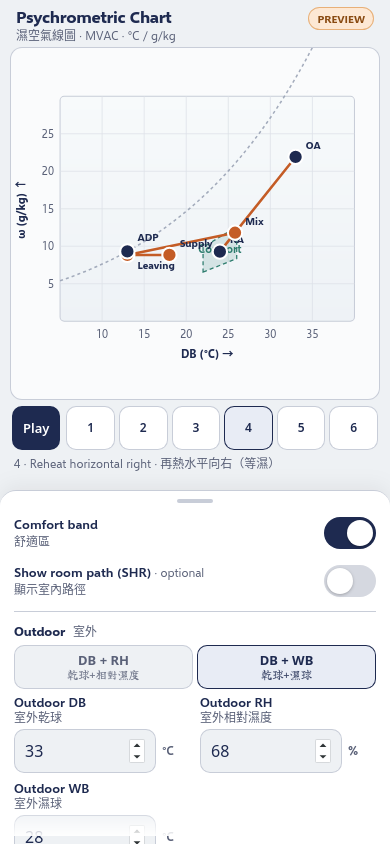
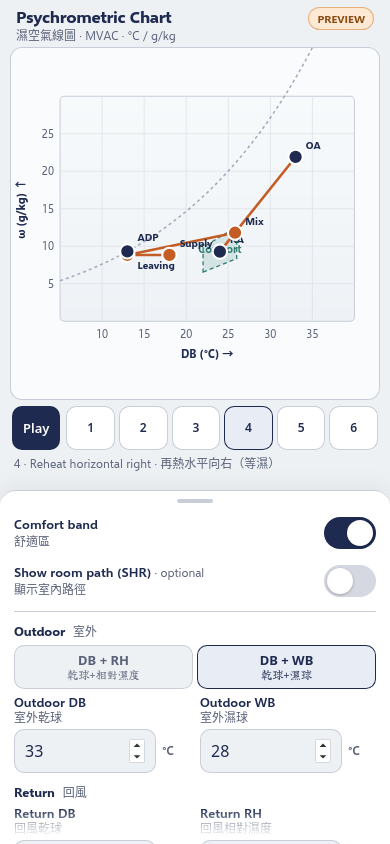
Proof: light-v2 punch-fix P0/P1/P2 on e6fbadc
Chromium+WebKit 320–430: .field[hidden] display:none, BEC under
segment in first sheet band, WB>DB amber mid-keystroke then clamp
on blur. ACCEPTANCE SHA locked to punch tip e6fbadc.

diff --git a/preview-proof/light-v2/ACCEPTANCE.md b/preview-proof/light-v2/ACCEPTANCE.md
@@ -1,29 +1,40 @@
-# Light v2 acceptance
+# Light v2 punch-fix acceptance
 
-SHA: e176718 (preview)
+SHA: e6fbadc (preview)
 URL: https://justinksw.github.io/psychrometric-chart/ (Pages → preview)
+Local proof base: http://127.0.0.1:8765/
 
 | # | Item | Pass | Detail |
 |---|---|---|---|
-| 1 | 4 Defaults B1 | PASS | {"wbChecked":"true","rhChecked":"false","db":"33","wb":"28","rhHidden":true,"wbHidden":false,"raDb":"24","raRh":"50","ratio":"20","coil":"13","reheat":"5","comfort":true,"shr":false,"hasRaWb":false,"preview":true,"segH":44,"derived":68.62714915547718} |
+| 1 | 4 Defaults B1 | PASS | {"wbChecked":"true","rhChecked":"false","db":"33","wb":"28","raDb":"24","raRh":"50","ratio":"20","coil":"13","reheat":"5","comfort":true,"shr":false,"hasRaWb":false,"preview":true,"segH":44,"derived":68.62714915547718,"cssHasFieldHidden":true} |
 | 2 | 2 OA mode A1 tap≥44 | PASS | segH=44 |
 | 3 | 8 RA no WB | PASS | hasRaWb=false |
 | 4 | 13 PREVIEW badge | PASS | badge=true |
 | 5 | 10 WB calc ~68% | PASS | RH=68.6 |
-| 6 | 3 Field swap | PASS | {"rhVal":"68.6","rhHidden":false,"wbHidden":true,"mode":"true","omegaG":21.90204000011478} |
-| 7 | 5 State preserve | PASS | ω before=21.91 rh=21.90 wb=21.91 d=0.009/0.000 derivedRH=68.6 roundtripWB=28 |
-| 8 | 6 WB>DB C1 | PASS | mid={"warn":true,"val":"36"} after={"warn":false,"val":"33"} sat={"warn":false,"val":"33","rh":100} |
-| 9 | 7 BEC badge D1 | PASS | show=true clearHidden=true text=Outside typical BEC Outdoor Summer envel |
-| 10 | 1/11 no sx scroll chromium@320 | PASS | {"sw":320,"cw":320,"bodySw":320,"phoneSw":320,"phoneCw":320} |
-| 11 | 1/11 no sx scroll chromium@360 | PASS | {"sw":360,"cw":360,"bodySw":360,"phoneSw":360,"phoneCw":360} |
-| 12 | 1/11 no sx scroll chromium@390 | PASS | {"sw":390,"cw":390,"bodySw":390,"phoneSw":390,"phoneCw":390} |
-| 13 | 1/11 no sx scroll chromium@430 | PASS | {"sw":430,"cw":430,"bodySw":430,"phoneSw":430,"phoneCw":430} |
-| 14 | 1 Layout chart/sheet | PASS | {"chartTop":47.390625,"sheetTop":489.53125,"chartH":442.140625,"sheetH":354.46875,"noTabs":true} |
-| 15 | 1/11 no sx scroll webkit@320 | PASS | {"sw":320,"cw":320,"bodySw":320,"phoneSw":320,"phoneCw":320} |
-| 16 | 1/11 no sx scroll webkit@360 | PASS | {"sw":360,"cw":360,"bodySw":360,"phoneSw":360,"phoneCw":360} |
-| 17 | 1/11 no sx scroll webkit@390 | PASS | {"sw":390,"cw":390,"bodySw":390,"phoneSw":390,"phoneCw":390} |
-| 18 | 1/11 no sx scroll webkit@430 | PASS | {"sw":430,"cw":430,"bodySw":430,"phoneSw":430,"phoneCw":430} |
-| 19 | 9 Path/math inherit | PASS | computeProcess + chart path unchanged; WB path added |
-| 20 | 12 Not a checker | PASS | no pass/fail UI; BEC hint only; no RA WB; no winter |
+| 6 | P0 CSS .field[hidden] | PASS | css=true |
+| 7 | P0 DB+WB computed chromium | PASS | {"rhHiddenAttr":true,"wbHiddenAttr":false,"rhDisplay":"none","wbDisplay":"flex","rhText":" Outdoor RH室外相對濕度 % ","wbText":"Outdoor WB 室外濕球 °C"} |
+| 8 | 3 Field swap attrs | PASS | {"rhVal":"68.6","mode":"true","omegaG":21.90204000011478} |
+| 9 | 5 State preserve | PASS | ω before=21.91 rh=21.90 wb=21.91 d=0.009/0.000 derivedRH=68.6 roundtripWB=28 |
+| 10 | P0 DB+RH computed chromium | PASS | {"rhHiddenAttr":false,"wbHiddenAttr":true,"rhDisplay":"flex","wbDisplay":"none","rhText":"Outdoor RH 室外相對濕度 %","wbText":" Outdoor WB室外濕球 °C WB can’t exceed DB (s"} |
+| 11 | 6/P2 WB>DB mid+clamp | PASS | mid={"warnHidden":false,"warnDisplay":"block","val":"36"} after={"warnHidden":true,"val":"33"} sat={"warnHidden":true,"val":"33","rh":100} |
+| 12 | 7/P1 BEC first screenful | PASS | {"show":true,"display":"block","text":"Outside typical BEC Outdoor Summer envelope (hint)","top":696.53125,"bottom":742.90625,"sheetTop":489.53125,"inViewport":true,"inSheetFirstBand":true} clearHidden=true |
+| 13 | P0 default computed chromium@320 | PASS | {"rhHiddenAttr":true,"wbHiddenAttr":false,"rhDisplay":"none","wbDisplay":"flex","rhText":" Outdoor RH室外相對濕度 % ","wbText":"Outdoor WB °C"} |
+| 14 | 1/11 no sx scroll chromium@320 | PASS | {"sw":320,"cw":320,"bodySw":320,"phoneSw":320,"phoneCw":320} |
+| 15 | 1/11 no sx scroll chromium@360 | PASS | {"sw":360,"cw":360,"bodySw":360,"phoneSw":360,"phoneCw":360} |
+| 16 | P0 default computed chromium@390 | PASS | {"rhHiddenAttr":true,"wbHiddenAttr":false,"rhDisplay":"none","wbDisplay":"flex","rhText":" Outdoor RH室外相對濕度 % ","wbText":"Outdoor WB 室外濕球 °C"} |
+| 17 | 1/11 no sx scroll chromium@390 | PASS | {"sw":390,"cw":390,"bodySw":390,"phoneSw":390,"phoneCw":390} |
+| 18 | 1/11 no sx scroll chromium@430 | PASS | {"sw":430,"cw":430,"bodySw":430,"phoneSw":430,"phoneCw":430} |
+| 19 | 1 Layout chart/sheet | PASS | {"chartTop":47.390625,"sheetTop":489.53125,"chartH":442.140625,"sheetH":354.46875,"noTabs":true} |
+| 20 | P0 DB+WB computed webkit | PASS | {"rhHiddenAttr":true,"wbHiddenAttr":false,"rhDisplay":"none","wbDisplay":"flex","rhText":" Outdoor RH室外相對濕度 % ","wbText":"Outdoor WB 室外濕球 °C"} |
+| 21 | P0 DB+RH computed webkit | PASS | {"rhHiddenAttr":false,"wbHiddenAttr":true,"rhDisplay":"flex","wbDisplay":"none","rhText":"Outdoor RH 室外相對濕度 %","wbText":" Outdoor WB室外濕球 °C WB can’t exceed DB (s"} |
+| 22 | P1 BEC visible webkit | PASS | {"show":true,"display":"block","text":"Outside typical BEC Outdoor Summer envelope (hint)","top":696.53125,"bottom":742.90625,"sheetTop":489.53125,"inViewport":true,"inSheetFirstBand":true} |
+| 23 | P0 default computed webkit@320 | PASS | {"rhHiddenAttr":true,"wbHiddenAttr":false,"rhDisplay":"none","wbDisplay":"flex","rhText":" Outdoor RH室外相對濕度 % ","wbText":"Outdoor WB °C"} |
+| 24 | 1/11 no sx scroll webkit@320 | PASS | {"sw":320,"cw":320,"bodySw":320,"phoneSw":320,"phoneCw":320} |
+| 25 | 1/11 no sx scroll webkit@360 | PASS | {"sw":360,"cw":360,"bodySw":360,"phoneSw":360,"phoneCw":360} |
+| 26 | P0 default computed webkit@390 | PASS | {"rhHiddenAttr":true,"wbHiddenAttr":false,"rhDisplay":"none","wbDisplay":"flex","rhText":" Outdoor RH室外相對濕度 % ","wbText":"Outdoor WB 室外濕球 °C"} |
+| 27 | 1/11 no sx scroll webkit@390 | PASS | {"sw":390,"cw":390,"bodySw":390,"phoneSw":390,"phoneCw":390} |
+| 28 | 1/11 no sx scroll webkit@430 | PASS | {"sw":430,"cw":430,"bodySw":430,"phoneSw":430,"phoneCw":430} |
+| 29 | 9 Path/math inherit | PASS | computeProcess + chart path unchanged; WB path added |
+| 30 | 12 Not a checker | PASS | no pass/fail UI; BEC hint only; no RA WB; no winter |
 
 **ALL PASS**

diff --git a/preview-proof/light-v2/punch-fix/ACCEPTANCE.md b/preview-proof/light-v2/punch-fix/ACCEPTANCE.md
@@ -1,0 +1,40 @@
+# Light v2 punch-fix acceptance
+
+SHA: e6fbadc (preview)
+URL: https://justinksw.github.io/psychrometric-chart/ (Pages → preview)
+Local proof base: http://127.0.0.1:8765/
+
+| # | Item | Pass | Detail |
+|---|---|---|---|
+| 1 | 4 Defaults B1 | PASS | {"wbChecked":"true","rhChecked":"false","db":"33","wb":"28","raDb":"24","raRh":"50","ratio":"20","coil":"13","reheat":"5","comfort":true,"shr":false,"hasRaWb":false,"preview":true,"segH":44,"derived":68.62714915547718,"cssHasFieldHidden":true} |
+| 2 | 2 OA mode A1 tap≥44 | PASS | segH=44 |
+| 3 | 8 RA no WB | PASS | hasRaWb=false |
+| 4 | 13 PREVIEW badge | PASS | badge=true |
+| 5 | 10 WB calc ~68% | PASS | RH=68.6 |
+| 6 | P0 CSS .field[hidden] | PASS | css=true |
+| 7 | P0 DB+WB computed chromium | PASS | {"rhHiddenAttr":true,"wbHiddenAttr":false,"rhDisplay":"none","wbDisplay":"flex","rhText":" Outdoor RH室外相對濕度 % ","wbText":"Outdoor WB 室外濕球 °C"} |
+| 8 | 3 Field swap attrs | PASS | {"rhVal":"68.6","mode":"true","omegaG":21.90204000011478} |
+| 9 | 5 State preserve | PASS | ω before=21.91 rh=21.90 wb=21.91 d=0.009/0.000 derivedRH=68.6 roundtripWB=28 |
+| 10 | P0 DB+RH computed chromium | PASS | {"rhHiddenAttr":false,"wbHiddenAttr":true,"rhDisplay":"flex","wbDisplay":"none","rhText":"Outdoor RH 室外相對濕度 %","wbText":" Outdoor WB室外濕球 °C WB can’t exceed DB (s"} |
+| 11 | 6/P2 WB>DB mid+clamp | PASS | mid={"warnHidden":false,"warnDisplay":"block","val":"36"} after={"warnHidden":true,"val":"33"} sat={"warnHidden":true,"val":"33","rh":100} |
+| 12 | 7/P1 BEC first screenful | PASS | {"show":true,"display":"block","text":"Outside typical BEC Outdoor Summer envelope (hint)","top":696.53125,"bottom":742.90625,"sheetTop":489.53125,"inViewport":true,"inSheetFirstBand":true} clearHidden=true |
+| 13 | P0 default computed chromium@320 | PASS | {"rhHiddenAttr":true,"wbHiddenAttr":false,"rhDisplay":"none","wbDisplay":"flex","rhText":" Outdoor RH室外相對濕度 % ","wbText":"Outdoor WB °C"} |
+| 14 | 1/11 no sx scroll chromium@320 | PASS | {"sw":320,"cw":320,"bodySw":320,"phoneSw":320,"phoneCw":320} |
+| 15 | 1/11 no sx scroll chromium@360 | PASS | {"sw":360,"cw":360,"bodySw":360,"phoneSw":360,"phoneCw":360} |
+| 16 | P0 default computed chromium@390 | PASS | {"rhHiddenAttr":true,"wbHiddenAttr":false,"rhDisplay":"none","wbDisplay":"flex","rhText":" Outdoor RH室外相對濕度 % ","wbText":"Outdoor WB 室外濕球 °C"} |
+| 17 | 1/11 no sx scroll chromium@390 | PASS | {"sw":390,"cw":390,"bodySw":390,"phoneSw":390,"phoneCw":390} |
+| 18 | 1/11 no sx scroll chromium@430 | PASS | {"sw":430,"cw":430,"bodySw":430,"phoneSw":430,"phoneCw":430} |
+| 19 | 1 Layout chart/sheet | PASS | {"chartTop":47.390625,"sheetTop":489.53125,"chartH":442.140625,"sheetH":354.46875,"noTabs":true} |
+| 20 | P0 DB+WB computed webkit | PASS | {"rhHiddenAttr":true,"wbHiddenAttr":false,"rhDisplay":"none","wbDisplay":"flex","rhText":" Outdoor RH室外相對濕度 % ","wbText":"Outdoor WB 室外濕球 °C"} |
+| 21 | P0 DB+RH computed webkit | PASS | {"rhHiddenAttr":false,"wbHiddenAttr":true,"rhDisplay":"flex","wbDisplay":"none","rhText":"Outdoor RH 室外相對濕度 %","wbText":" Outdoor WB室外濕球 °C WB can’t exceed DB (s"} |
+| 22 | P1 BEC visible webkit | PASS | {"show":true,"display":"block","text":"Outside typical BEC Outdoor Summer envelope (hint)","top":696.53125,"bottom":742.90625,"sheetTop":489.53125,"inViewport":true,"inSheetFirstBand":true} |
+| 23 | P0 default computed webkit@320 | PASS | {"rhHiddenAttr":true,"wbHiddenAttr":false,"rhDisplay":"none","wbDisplay":"flex","rhText":" Outdoor RH室外相對濕度 % ","wbText":"Outdoor WB °C"} |
+| 24 | 1/11 no sx scroll webkit@320 | PASS | {"sw":320,"cw":320,"bodySw":320,"phoneSw":320,"phoneCw":320} |
+| 25 | 1/11 no sx scroll webkit@360 | PASS | {"sw":360,"cw":360,"bodySw":360,"phoneSw":360,"phoneCw":360} |
+| 26 | P0 default computed webkit@390 | PASS | {"rhHiddenAttr":true,"wbHiddenAttr":false,"rhDisplay":"none","wbDisplay":"flex","rhText":" Outdoor RH室外相對濕度 % ","wbText":"Outdoor WB 室外濕球 °C"} |
+| 27 | 1/11 no sx scroll webkit@390 | PASS | {"sw":390,"cw":390,"bodySw":390,"phoneSw":390,"phoneCw":390} |
+| 28 | 1/11 no sx scroll webkit@430 | PASS | {"sw":430,"cw":430,"bodySw":430,"phoneSw":430,"phoneCw":430} |
+| 29 | 9 Path/math inherit | PASS | computeProcess + chart path unchanged; WB path added |
+| 30 | 12 Not a checker | PASS | no pass/fail UI; BEC hint only; no RA WB; no winter |
+
+**ALL PASS**
